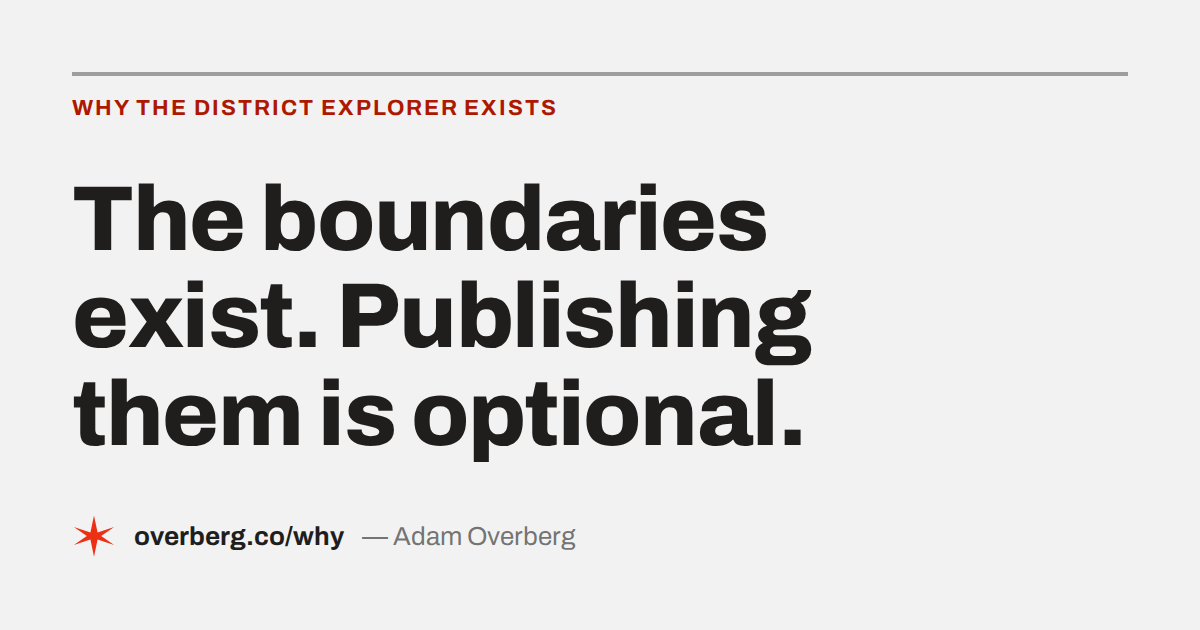
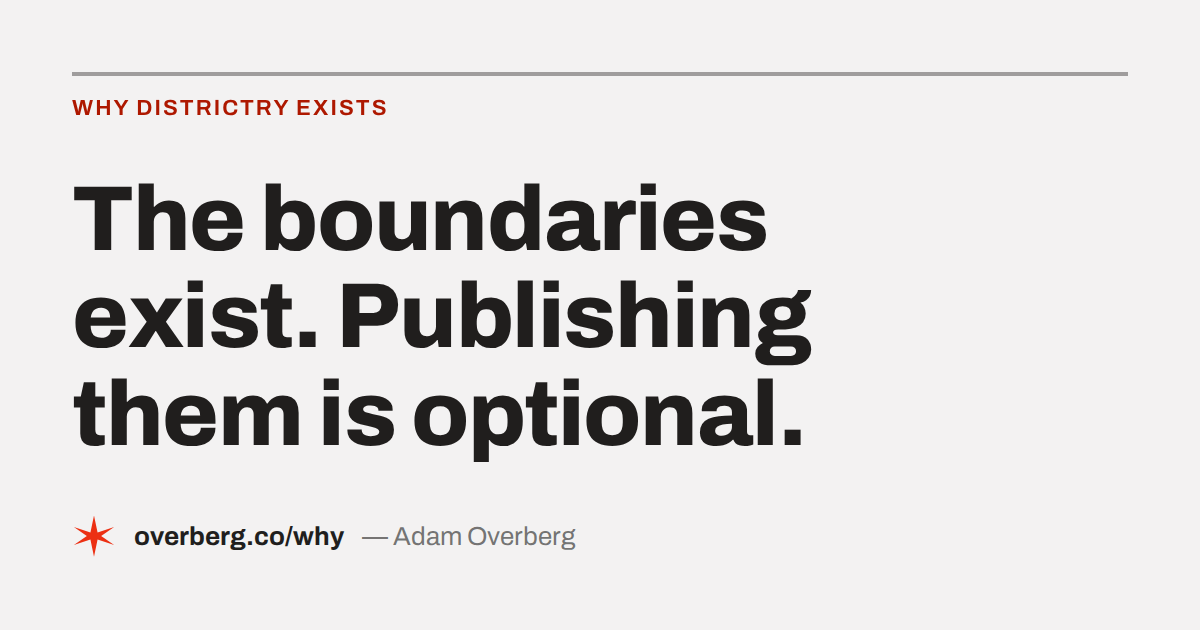
Bring districtry up to date on overberg.co (#18)
Home page: tile labels fixed, districtry paragraph rewritten (coverage, ZIP search, the 50-state goal), the hand-kept place cards replaced with one link to districtry.com's front page, an Android test line, buttons pointed at districtry.com, and a footer link to districtry's AI page.

Why page: gap counts made consistent, 97 counties, Perry off "Refused at the door", a new "It isn't only Illinois" section, and a state-level line in the closing ask.

Google Analytics removed from both pages; the Why link-preview picture says districtry; README current.

Claude-Session: https://claude.ai/code/session_01JKV4YZJAaJoiotFHtVPDQ6

Changed region(s): [[0.0617, 0.1508, 0.4625, 0.181]]

diff --git a/why/index.html b/why/index.html
@@ -27,21 +27,6 @@
     } catch (e) { document.documentElement.dataset.theme = 'light'; }
   })();
 </script>
-<!-- Google tag (gtag.js) — production host only; keeps local dev out of analytics -->
-<script>
-  (function () {
-    if (location.hostname !== 'overberg.co' && location.hostname !== 'www.overberg.co') return;
-    if (window.top !== window.self) return; // top-level only — the cookieless GoatCounter still counts embeds
-    var s = document.createElement('script');
-    s.async = true;
-    s.src = 'https://www.googletagmanager.com/gtag/js?id=G-9VR0BR81ZN';
-    document.head.appendChild(s);
-    window.dataLayer = window.dataLayer || [];
-    window.gtag = function () { dataLayer.push(arguments); };
-    gtag('js', new Date());
-    gtag('config', 'G-9VR0BR81ZN');
-  })();
-</script>
 <!-- GoatCounter — cookieless page counts -->
 <script data-goatcounter="https://overbergco.goatcounter.com/count" async src="//gc.zgo.at/count.js"></script>
 <link rel="stylesheet" href="/style.css" />
@@ -57,6 +42,7 @@
     margin: 0 0 21px; max-width: 20ch;
   }
   .section > .intro { font-size: 15.5px; line-height: 28px; margin: 0; max-width: 58ch; }
+  .section > .intro + .intro { margin-top: 21px; }
 
   /* — the format ladder — */
   .ladder { margin-top: clamp(36px, 5vw, 56px); }
@@ -155,7 +141,7 @@
     <svg class="moon" width="16" height="16" viewBox="0 0 24 24" fill="none" stroke="currentColor" stroke-width="2" stroke-linecap="round" stroke-linejoin="round" aria-hidden="true"><path d="M12 3a6 6 0 0 0 9 9 9 9 0 1 1-9-9Z"/></svg>
     <svg class="sun" width="16" height="16" viewBox="0 0 24 24" fill="none" stroke="currentColor" stroke-width="2" stroke-linecap="round" stroke-linejoin="round" aria-hidden="true"><circle cx="12" cy="12" r="4"/><path d="M12 2v2"/><path d="M12 20v2"/><path d="m4.93 4.93 1.41 1.41"/><path d="m17.66 17.66 1.41 1.41"/><path d="M2 12h2"/><path d="M20 12h2"/><path d="m6.34 17.66-1.41 1.41"/><path d="m19.07 4.93-1.41 1.41"/></svg>
   </button>
-  <a class="btn btn-primary" href="https://districtry.com/il/">Open districtry</a>
+  <a class="btn btn-primary" href="https://districtry.com/">Open districtry</a>
 </nav>
 
 <div class="wrap">
@@ -171,7 +157,7 @@
   <section class="lede">
     <p>districtry answers one question: <em>who represents this spot?</em> Click a point, get every civic district that contains it — ward, precinct, county board, fire protection district, judicial subcircuit, elected school board — and the name of the person holding each seat.</p>
     <p>In Chicago that question is nearly easy. The city runs an open data portal, the county runs a GIS service, and the boundaries come back over HTTP in seconds. That version of the project took a weekend.</p>
-    <p>Then it left the city. Every county line the map crosses is a different publisher, a different format, a different answer to the question of whether this is public information at all. Coverage now stands at 91 of Illinois' 102 counties, and almost none of the work was code.</p>
+    <p>Then it left the city. Every county line the map crosses is a different publisher, a different format, a different answer to the question of whether this is public information at all. Coverage now stands at <span data-stat="illinois.counties_served">97</span> of Illinois' 102 counties, and almost none of the work was code.</p>
   </section>
 
   <hr class="rule2" />
@@ -262,14 +248,14 @@
             <p class="rung-format">A licence and a price tag</p>
             <p class="rung-where">Champaign · Piatt · Bureau</p>
           </div>
-          <p class="rung-detail muted78">Champaign and Piatt sit complete and current behind the Champaign County GIS Consortium, which sells the data under a licence that permits viewing and forbids republishing. Bureau County's GIS office quoted its board-district shapefile at $150 — beneath a licence that forbids redistributing anything derived from it. The block is legal, not technical, and no amount of engineering touches it.</p>
+          <p class="rung-detail muted78">Champaign and Piatt sit complete and current behind the Champaign County GIS Consortium, which sells the data under a licence that permits viewing and forbids republishing. Bureau County's GIS office quoted its board-district shapefile at $150 — beneath a licence that forbids redistributing anything derived from it. The block is legal, not technical, and no amount of engineering touches it. Their board members are on the map now, read from the counties' own websites. Their districts are not.</p>
           <span class="meter" role="img" aria-label="Machine-readable: 0 of 6"><i></i><i></i><i></i><i></i><i></i><i></i></span>
         </div>
 
         <div class="rung">
           <div>
             <p class="rung-format">Refused at the door</p>
-            <p class="rung-where">Adams · Perry</p>
+            <p class="rung-where">Adams</p>
           </div>
           <p class="rung-detail muted78">Adams publishes its seven board districts as clean map data — and its website answers every automated visit with a 391-byte Access Denied. The map is open; the page naming who won those districts is not.</p>
           <span class="meter" role="img" aria-label="Machine-readable: 0 of 6"><i></i><i></i><i></i><i></i><i></i><i></i></span>
@@ -337,7 +323,7 @@
     <p class="muted78">The shapefile arrived the day somebody asked for it. Of course it did. A county that runs elections necessarily <em>has</em> precinct geometry — it cannot hand out the right ballots otherwise. Putting that file on a website is a separate act, and one it may simply never have had a reason to perform.</p>
     <p class="muted78">The same logic runs through everything the map draws. A county that levies a fire protection tax knows exactly where that district ends. A county that seats a board by district knows which townships compose each one. The boundary always exists somewhere. What varies — county to county, office to office — is whether anyone ever decided it should be public.</p>
     <p class="muted78">And sometimes it is already public, in a form nobody filed under &ldquo;map.&rdquo; A board district built from whole voting precincts is described completely by the county&rsquo;s own election returns: the list of precincts a district&rsquo;s contest appeared on <em>is</em> the district. Four counties went on this map in a single day that way — from certified results their clerks already publish as ordinary data, with nobody answering an email. The same records were just as useful when the answer was no. Nine more counties turned out to split precincts between districts, or to have redrawn their precincts since the last census, and every one of those is now a measured fact instead of an open question.</p>
-    <p class="muted78">Sometimes the honest answer really is no, and that gets recorded too. Edwards County's boundaries are on paper because that is where its Clerk says they are. That is a closed route, not an unmeasured one, and the difference matters: this project keeps a record for every absence, naming the specific artifact a publisher would have to release to close it. Currently there are 110 of them.</p>
+    <p class="muted78">Sometimes the honest answer really is no, and that gets recorded too. Edwards County's boundaries are on paper because that is where its Clerk says they are. That is a closed route, not an unmeasured one, and the difference matters: this project keeps a record for every absence, naming the specific artifact a publisher would have to release to close it. Currently there are <span data-stat="gap_records">101</span> of them.</p>
   </section>
 
   <hr class="rule2" />
@@ -345,11 +331,20 @@
   <section class="tally" aria-label="Where it stands">
     <span class="kicker">Where it stands</span>
     <div class="grid">
-      <div><p class="tally-num" data-stat="illinois.counties_served">91</p><p class="tally-label">of 102 Illinois counties served</p></div>
+      <div><p class="tally-num" data-stat="illinois.counties_served">97</p><p class="tally-label">of 102 Illinois counties served</p></div>
       <div><p class="tally-num" data-stat="gap_records">101</p><p class="tally-label">recorded gaps, each naming what would close it</p></div>
       <div><p class="tally-num">0</p><p class="tally-label">counties left unresearched</p></div>
     </div>
-    <p class="breakdown muted78">Of those 106 gaps: <strong>79</strong> are things no one publishes in any form, <strong>20</strong> are published but wrong, stale, or incomplete, and <strong>7</strong> are blocked outright by a licence or a server that refuses to answer. Only the last seven are anybody's deliberate no.</p>
+    <p class="breakdown muted78">Of the 101 gaps recorded in October 2026: <strong>63</strong> are things no one publishes in any form, <strong>29</strong> are published but wrong, stale, or incomplete, and <strong>9</strong> are blocked outright by a licence or a server that refuses to answer. Only the last nine are anybody's deliberate no.</p>
+  </section>
+
+  <hr class="rule2" />
+
+  <section class="section">
+    <span class="kicker">It isn't only Illinois</span>
+    <h2>Every state I've added has the same gap.</h2>
+    <p class="intro muted78">districtry has since spread well past Illinois, and the pattern holds in every state. In 57 of Mississippi's 82 counties, I can name all five county supervisors but cannot show which one represents a given spot, because I have no confirmed map of the current district lines. In 56 of Louisiana's 64 parishes, the same is true of the police jury or parish council. Those counties and parishes must have the map to run their elections. It just isn't published anywhere I can get it.</p>
+    <p class="intro muted78">A county clerk can fix this for one county. A state can fix it for all of them. In October 2026 I asked the Illinois State Board of Elections to publish a single statewide precinct map. That one file would replace dozens of separate requests, and every other state could do the same.</p>
   </section>
 
   <hr class="rule2" />
@@ -358,7 +353,7 @@
     <span class="kicker">What it would take</span>
     <p>None of this is a scandal, and no clerk in this story did anything wrong. County election offices run on small staffs and thin budgets; nobody funded a GIS portal in a county of six thousand people, and nobody should have to. The people who answered these emails were, without exception, generous with their time.</p>
     <p>But the cost of not publishing doesn't land on the county. It lands on the resident who cannot easily find out who represents them — and it lands hardest in the smallest counties, the ones least able to build the tool that would tell them.</p>
-    <p>Which makes the fix unusually cheap. In most of these counties the file already exists, on a machine somebody signs into every day. Posting it changes nothing about the county's work and everything about what anyone can build on top of it. That is the whole ask: <strong>publish the file you already have.</strong></p>
+    <p>Which makes the fix unusually cheap. In most of these counties the file already exists, on a machine somebody signs into every day. Posting it changes nothing about the county's work and everything about what anyone can build on top of it. That is the whole ask: <strong>publish the file you already have.</strong> And for a state: <strong>gather the files your counties already have into one.</strong></p>
   </section>
 
 </div>
@@ -378,6 +373,7 @@
     <span>© 2026 Adam Overberg</span>
     <a href="mailto:hello@overberg.co">hello@overberg.co</a>
     <a href="/">Home</a>
+    <a href="https://districtry.com/ai.html">How I use AI</a>
     <a href="https://github.com/ThursdaysFamous">GitHub</a>
     <a href="https://www.linkedin.com/in/adammoverberg/">LinkedIn</a>
   </footer>

diff --git a/index.html b/index.html
@@ -4,12 +4,12 @@
 <meta charset="UTF-8" />
 <meta name="viewport" content="width=device-width, initial-scale=1.0" />
 <title>Adam Overberg — civic tools &amp; web apps</title>
-<meta name="description" content="Adam Overberg builds civic tools and web apps around Chicago and open government data — including districtry, a civic district lookup tool." />
+<meta name="description" content="Adam Overberg builds civic tools and web apps on open government data, starting in Chicago — including districtry, a civic district lookup tool." />
 <link rel="canonical" href="https://overberg.co/" />
 <meta name="robots" content="index, follow" />
 <meta property="og:type" content="website" />
 <meta property="og:title" content="Adam Overberg — civic tools & web apps" />
-<meta property="og:description" content="I build civic tools and web apps around Chicago and open government data, including districtry, a civic district lookup tool." />
+<meta property="og:description" content="I build civic tools and web apps on open government data, starting in Chicago, including districtry, a civic district lookup tool." />
 <meta property="og:url" content="https://overberg.co/" />
 <meta property="og:image" content="https://overberg.co/images/social-home.png" />
 <meta property="og:image:width" content="1200" />
@@ -25,21 +25,6 @@
       var dark = s ? s === 'dark' : matchMedia('(prefers-color-scheme: dark)').matches;
       document.documentElement.dataset.theme = dark ? 'dark' : 'light';
     } catch (e) { document.documentElement.dataset.theme = 'light'; }
-  })();
-</script>
-<!-- Google tag (gtag.js) — production host only; keeps local dev out of analytics -->
-<script>
-  (function () {
-    if (location.hostname !== 'overberg.co' && location.hostname !== 'www.overberg.co') return;
-    if (window.top !== window.self) return; // top-level only — the cookieless GoatCounter still counts embeds
-    var s = document.createElement('script');
-    s.async = true;
-    s.src = 'https://www.googletagmanager.com/gtag/js?id=G-9VR0BR81ZN';
-    document.head.appendChild(s);
-    window.dataLayer = window.dataLayer || [];
-    window.gtag = function () { dataLayer.push(arguments); };
-    gtag('js', new Date());
-    gtag('config', 'G-9VR0BR81ZN');
   })();
 </script>
 <!-- GoatCounter — cookieless page counts -->
@@ -113,15 +98,15 @@
     <svg class="moon" width="16" height="16" viewBox="0 0 24 24" fill="none" stroke="currentColor" stroke-width="2" stroke-linecap="round" stroke-linejoin="round" aria-hidden="true"><path d="M12 3a6 6 0 0 0 9 9 9 9 0 1 1-9-9Z"/></svg>
     <svg class="sun" width="16" height="16" viewBox="0 0 24 24" fill="none" stroke="currentColor" stroke-width="2" stroke-linecap="round" stroke-linejoin="round" aria-hidden="true"><circle cx="12" cy="12" r="4"/><path d="M12 2v2"/><path d="M12 20v2"/><path d="m4.93 4.93 1.41 1.41"/><path d="m17.66 17.66 1.41 1.41"/><path d="M2 12h2"/><path d="M20 12h2"/><path d="m6.34 17.66-1.41 1.41"/><path d="m19.07 4.93-1.41 1.41"/></svg>
   </button>
-  <a class="btn btn-primary" href="https://districtry.com/il/">Open districtry</a>
+  <a class="btn btn-primary" href="https://districtry.com/">Open districtry</a>
 </nav>
 <div class="wrap">
 
   <section class="hero">
     <h1 class="display"><span class="line">Civic tools for people</span> <span class="line">who live somewhere.</span></h1>
-    <p class="sub">I'm Adam Overberg. I build fast, free web tools on open government data — starting with districtry: click any point on the map and see every civic district that contains it, and exactly who represents you there. No login, no tracking, no fuss.</p>
+    <p class="sub">I'm Adam Overberg. I build fast, free web tools on open government data — starting with districtry: click any point on the map and see every civic district that contains it, and exactly who represents you there. No login, no ads, no fuss.</p>
     <div class="row">
-      <a class="btn btn-primary" href="https://districtry.com/il/">Look yourself up &rarr;</a>
+      <a class="btn btn-primary" href="https://districtry.com/">Look yourself up &rarr;</a>
       <a class="btn btn-ghost" href="#work">See the work</a>
     </div>
   </section>
@@ -130,9 +115,9 @@
 
   <section class="stats" aria-label="By the numbers">
     <div class="grid">
-      <div><p class="stat-num" data-stat="places">4</p><p class="stat-label">Places live — Illinois, Wisconsin, NYC, SF</p></div>
-      <div><p class="stat-num" data-stat="layers.il">39</p><p class="stat-label">District layers, ward to judicial circuit</p></div>
-      <div><p class="stat-num" data-stat="illinois.counties_served">91</p><p class="stat-label">Illinois counties served — and growing</p></div>
+      <div><p class="stat-num" data-stat="places">16</p><p class="stat-label">States and cities live</p></div>
+      <div><p class="stat-num" data-stat="layers.il">41</p><p class="stat-label">District layers in Illinois, ward to judicial circuit</p></div>
+      <div><p class="stat-num" data-stat="illinois.counties_served">97</p><p class="stat-label">Illinois counties served — and growing</p></div>
     </div>
   </section>
 
@@ -142,7 +127,7 @@
     <span class="kicker">Currently building</span>
     <div class="cols">
       <h2>districtry</h2>
-      <p class="muted78">One click, every district: your ward, police district, community area, congressional and state legislative districts, elected school board, CPS zones, and more — with the name of who represents you in each. Started in Chicago as the Chicago District Explorer, it now covers 91 counties across northern and central Illinois, from the Wisconsin line to the Metro East. <a href="https://districtry.com/il/" style="font-weight:600">districtry.com/il &rarr;</a> · <a href="/why/" style="font-weight:600">why it took 102 conversations &rarr;</a></p>
+      <p class="muted78">One click, every district: city council, county board, state legislature, Congress, school board, courts, precincts and more, including tribal governments in several states, with the name of who represents you in each. Type a ZIP code and it shows which wards or districts that ZIP code crosses. It started in Chicago as the Chicago District Explorer. It now answers in <span data-stat="places">16</span> states and cities, and covers <span data-stat="illinois.counties_served">97</span> of Illinois's 102 counties, from the Wisconsin line to Cairo. My goal is all 50 states. Along the way I keep a record of every place where this information is hard to get, and I use it to ask state and county governments to publish it in a form anyone can use. <a href="https://districtry.com/" style="font-weight:600">districtry.com &rarr;</a> · <a href="/why/" style="font-weight:600">why it took 102 conversations &rarr;</a></p>
     </div>
   </section>
 
@@ -150,32 +135,22 @@
     <div class="embed">
       <iframe src="https://districtry.com/il/#point=41.96177,-87.70884&amp;layers=police-district,ward,congress,il-senate,il-house" loading="lazy" title="districtry — Illinois" allow="geolocation" referrerpolicy="no-referrer-when-downgrade"></iframe>
     </div>
-    <p class="embed-note muted70">This is the real thing — click anywhere in the city, or search an address, to see who represents that point.</p>
+    <p class="embed-note muted70">This is the real thing — click anywhere in Illinois, or search an address, to see who represents that point.</p>
+    <p class="embed-note muted70">There's an Android app in testing. If you have an Android phone and want to help, the steps are at <a href="https://districtry.com/android" style="font-weight:600">districtry.com/android</a>.</p>
   </section>
 
   <hr class="rule2" />
 
-  <section class="ports" aria-label="Ports">
-    <span class="kicker">Also live</span>
-    <!-- One card per place BESIDES Illinois, which has its own section above.
-         The count in the stat tile is read from districtry.com/stats.json; these
-         cards are hand-written because each needs its own sentence. If a new
-         place ships, it needs a card here — Wisconsin went live on 2026-08-24
-         and sat unlisted for four days while the tile above already counted it,
-         so the page contradicted itself on one screen. -->
+  <section class="ports" aria-label="Live today">
+    <span class="kicker">Live today</span>
+    <!-- No hand-kept list of places here, on purpose. Wisconsin once sat
+         unlisted for four days while the number above already counted it.
+         districtry.com's own front page lists every live place and is
+         generated from the list the apps run on, so this links there. -->
     <div class="grid">
-      <a class="port" href="https://districtry.com/wi/">
-        <h3>districtry / wi &mdash; Wisconsin &rarr;</h3>
-        <p class="muted78">The same lookup, statewide: county boards, circuit courts, and
-          the wards and aldermanic districts underneath them.</p>
-      </a>
-      <a class="port" href="https://districtry.com/ny/">
-        <h3>districtry / ny &mdash; New York City &rarr;</h3>
-        <p class="muted78">The same lookup, rebuilt for the five boroughs.</p>
-      </a>
-      <a class="port" href="https://districtry.com/ca/">
-        <h3>districtry / ca &mdash; San Francisco &rarr;</h3>
-        <p class="muted78">The same lookup, for the seven-by-seven.</p>
+      <a class="port" href="https://districtry.com/">
+        <h3>Every place districtry answers &rarr;</h3>
+        <p class="muted78">districtry started in Chicago and now answers in <span data-stat="places">16</span> states and cities. Each state has its own map, and the front page at districtry.com lists every one and takes any address to the right map. Missouri is next.</p>
       </a>
     </div>
   </section>
@@ -190,7 +165,7 @@
       <span class="kicker">About</span>
       <h2>Open data, no middleman.</h2>
       <p class="bio muted78">Government publishes the boundaries; I make them answer a question a person actually has. Everything ships as plain, dependency-free web pages — fast to load, easy to trust, built in Chicago.</p>
-      <p class="roadmap"><span class="sq"></span><span data-stat="illinois.counties_served">91</span> Illinois counties and counting — headed for the whole state.</p>
+      <p class="roadmap"><span class="sq"></span><span><span data-stat="places">16</span> places and counting — headed for all 50 states.</span></p>
     </div>
   </section>
 
@@ -200,7 +175,7 @@
   <div class="wrap">
     <h3><span class="line">Somebody represents you.</span> <span class="line">Find out who.</span></h3>
     <div class="row" style="margin-top:42px">
-      <a class="btn btn-ghost" href="https://districtry.com/il/">Open districtry &rarr;</a>
+      <a class="btn btn-ghost" href="https://districtry.com/">Open districtry &rarr;</a>
     </div>
   </div>
 </section>
@@ -211,6 +186,7 @@
     <a href="mailto:hello@overberg.co">hello@overberg.co</a>
     <a href="/why/">Why this exists</a>
     <a href="https://districtry.com/traffic.html">Traffic</a>
+    <a href="https://districtry.com/ai.html">How I use AI</a>
     <a href="https://github.com/ThursdaysFamous">GitHub</a>
     <a href="https://www.linkedin.com/in/adammoverberg/">LinkedIn</a>
   </footer>

diff --git a/README.md b/README.md
@@ -1,7 +1,7 @@
 # overberg.co
 
 Personal landing page for **Adam Overberg** — civic tools and web apps built
-around Chicago and open government data.
+on open government data, starting in Chicago.
 
 Live at **[overberg.co](https://overberg.co/)**.
 
@@ -13,24 +13,25 @@ step and no framework, the same philosophy as the projects it links to. Served v
 GitHub Pages (`CNAME` → `overberg.co`, `.nojekyll`).
 
 - `index.html` — the landing page, a hub for what I'm currently building.
-- `why/index.html` → **[overberg.co/why](https://overberg.co/why/)** — why the
-  District Explorer exists: the nine incompatible formats Illinois counties hand
-  their boundary data over in, what the county-clerk correspondence returned, and
-  the case for publishing the file you already have.
+- `why/index.html` → **[overberg.co/why](https://overberg.co/why/)** — why
+  districtry exists: the formats Illinois counties hand their boundary data
+  over in, what the county-clerk correspondence returned, the same gap in
+  other states, and the case for publishing the file you already have.
 
 What it links out to:
 
-- **[districtry](https://districtry.com/il/)** (formerly the Chicago District
-  Explorer) — click any point (or search an address) and see every civic
-  district that contains it — ward, police district, community area,
-  congressional and state legislative districts, elected school board, CPS
-  zones, and more — plus who represents you there. Started in Chicago;
-  coverage now spans 89 counties across northern and central Illinois, from
-  the Wisconsin line to the Metro East. Embedded live on the page.
-- **[District Explorer: New York City](https://districtry.com/ny/)** — the
-  same lookup, ported to NYC.
-- **[District Explorer: San Francisco](https://districtry.com/ca/)** — ported
-  to SF.
+- **[districtry](https://districtry.com/)** (formerly the Chicago District
+  Explorer) — click any point (or search an address or ZIP code) and see every
+  civic district that contains it, plus who represents you there. It started
+  in Chicago and now answers in a growing list of states; its front page lists
+  every live place, so this site links there rather than keeping its own list.
+  The Illinois map is embedded live on the page.
+
+The numbers on both pages (places live, Illinois layers, Illinois counties
+served, recorded gaps) are read from
+[districtry.com/stats.json](https://districtry.com/stats.json) when the page
+loads; the values written in the HTML are only what a reader sees without
+JavaScript, so update them when you touch the page.
 
 ## Develop
 
